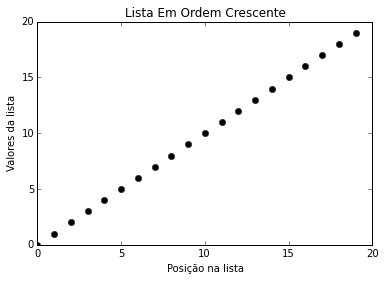
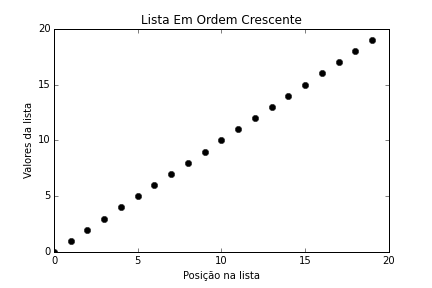
gráficos quando houver troca foram acrescentados

diff --git a/fig/bubble-sort.py b/fig/bubble-sort.py
@@ -1,0 +1,67 @@
+# -*- coding: utf-8 -*-
+"""
+Spyder Editor
+
+This is a temporary script file.
+"""
+
+import matplotlib.pyplot as plt
+lista = [11, 18, 3, 1, 16, 12, 6, 19, 5, 0, 14, 4, 17, 9, 13, 7, 10, 15, 2, 8] #Valores da Lista
+plt.figure() 
+#Criamos uma figura vazia
+plt.plot(range(0,20), lista, 'ok')
+#Definimos x como 'range(0,20)' e y como a lista original, antes de ser modificada pelo algoritmo
+plt.title("Lista Original")
+#Título do Gráfico
+plt.xlabel("Posição na lista")
+#Nomeamos X
+plt.ylabel("Valores da lista")
+#Nomeamos Y
+plt.savefig("bubble-inicio.png")
+#Salvamos a figura
+plt.close()
+#Fechamos a figura
+print("lista original", lista) #para imprimir a lista original sem modificações
+a = 0
+N = 20 #Numero de Elementos
+for i in range(0, N-1, 1): #Andando do primeiro elemento até o penultimo de 1 em 1
+    for j in range(i+1, N, 1): #Andando do elemento seguinte a 'i' até o ultimo de 1 em 1
+        if lista[i] < lista[j]:
+            continue
+        else:
+            temp = lista[i] #Para inverter os valores
+            lista[i] = lista[j]
+            lista[j] = temp
+            plt.figure()
+            plt.plot(range(0,20), lista, 'ok')
+            plt.title("Lista Em Cada Troca")
+            plt.xlabel("Posição na lista")
+            plt.ylabel("Valores da lista")        
+            a = a + 1
+            plt.savefig("bubble-troca{}.png".format(a))
+print("lista em ordem crescente", lista) #para imprimir a lista em ordem crescente com modificações
+plt.figure() 
+plt.plot(range(0,20), lista, 'ok')
+plt.title("Lista Em Ordem Crescente")
+plt.xlabel("Posição na lista")
+plt.ylabel("Valores da lista")
+plt.savefig("bubble-fim.png")
+plt.close()
+
+
+print("cinco menores valores", lista[0:5]) #usamos esse comando para imprimir apenas os cinco menores valores da lista em ordem crescente, e o nomeamos como 'cinco menores valores'
+print("cinco maiores valores", lista[15:20]) #usamos esse comando para imprimir apenas os cinco maiores valores da lista em ordem crescente, e o nomeamos como 'cinco maiores valores'
+
+#Para selecionar o primeiro elemento da lista 'lista[0]'
+#Para selecionar os cincos primeiros elementos da lista 'lista[0:4]'
+
+
+
+
+
+
+
+           
+            
+
+    
